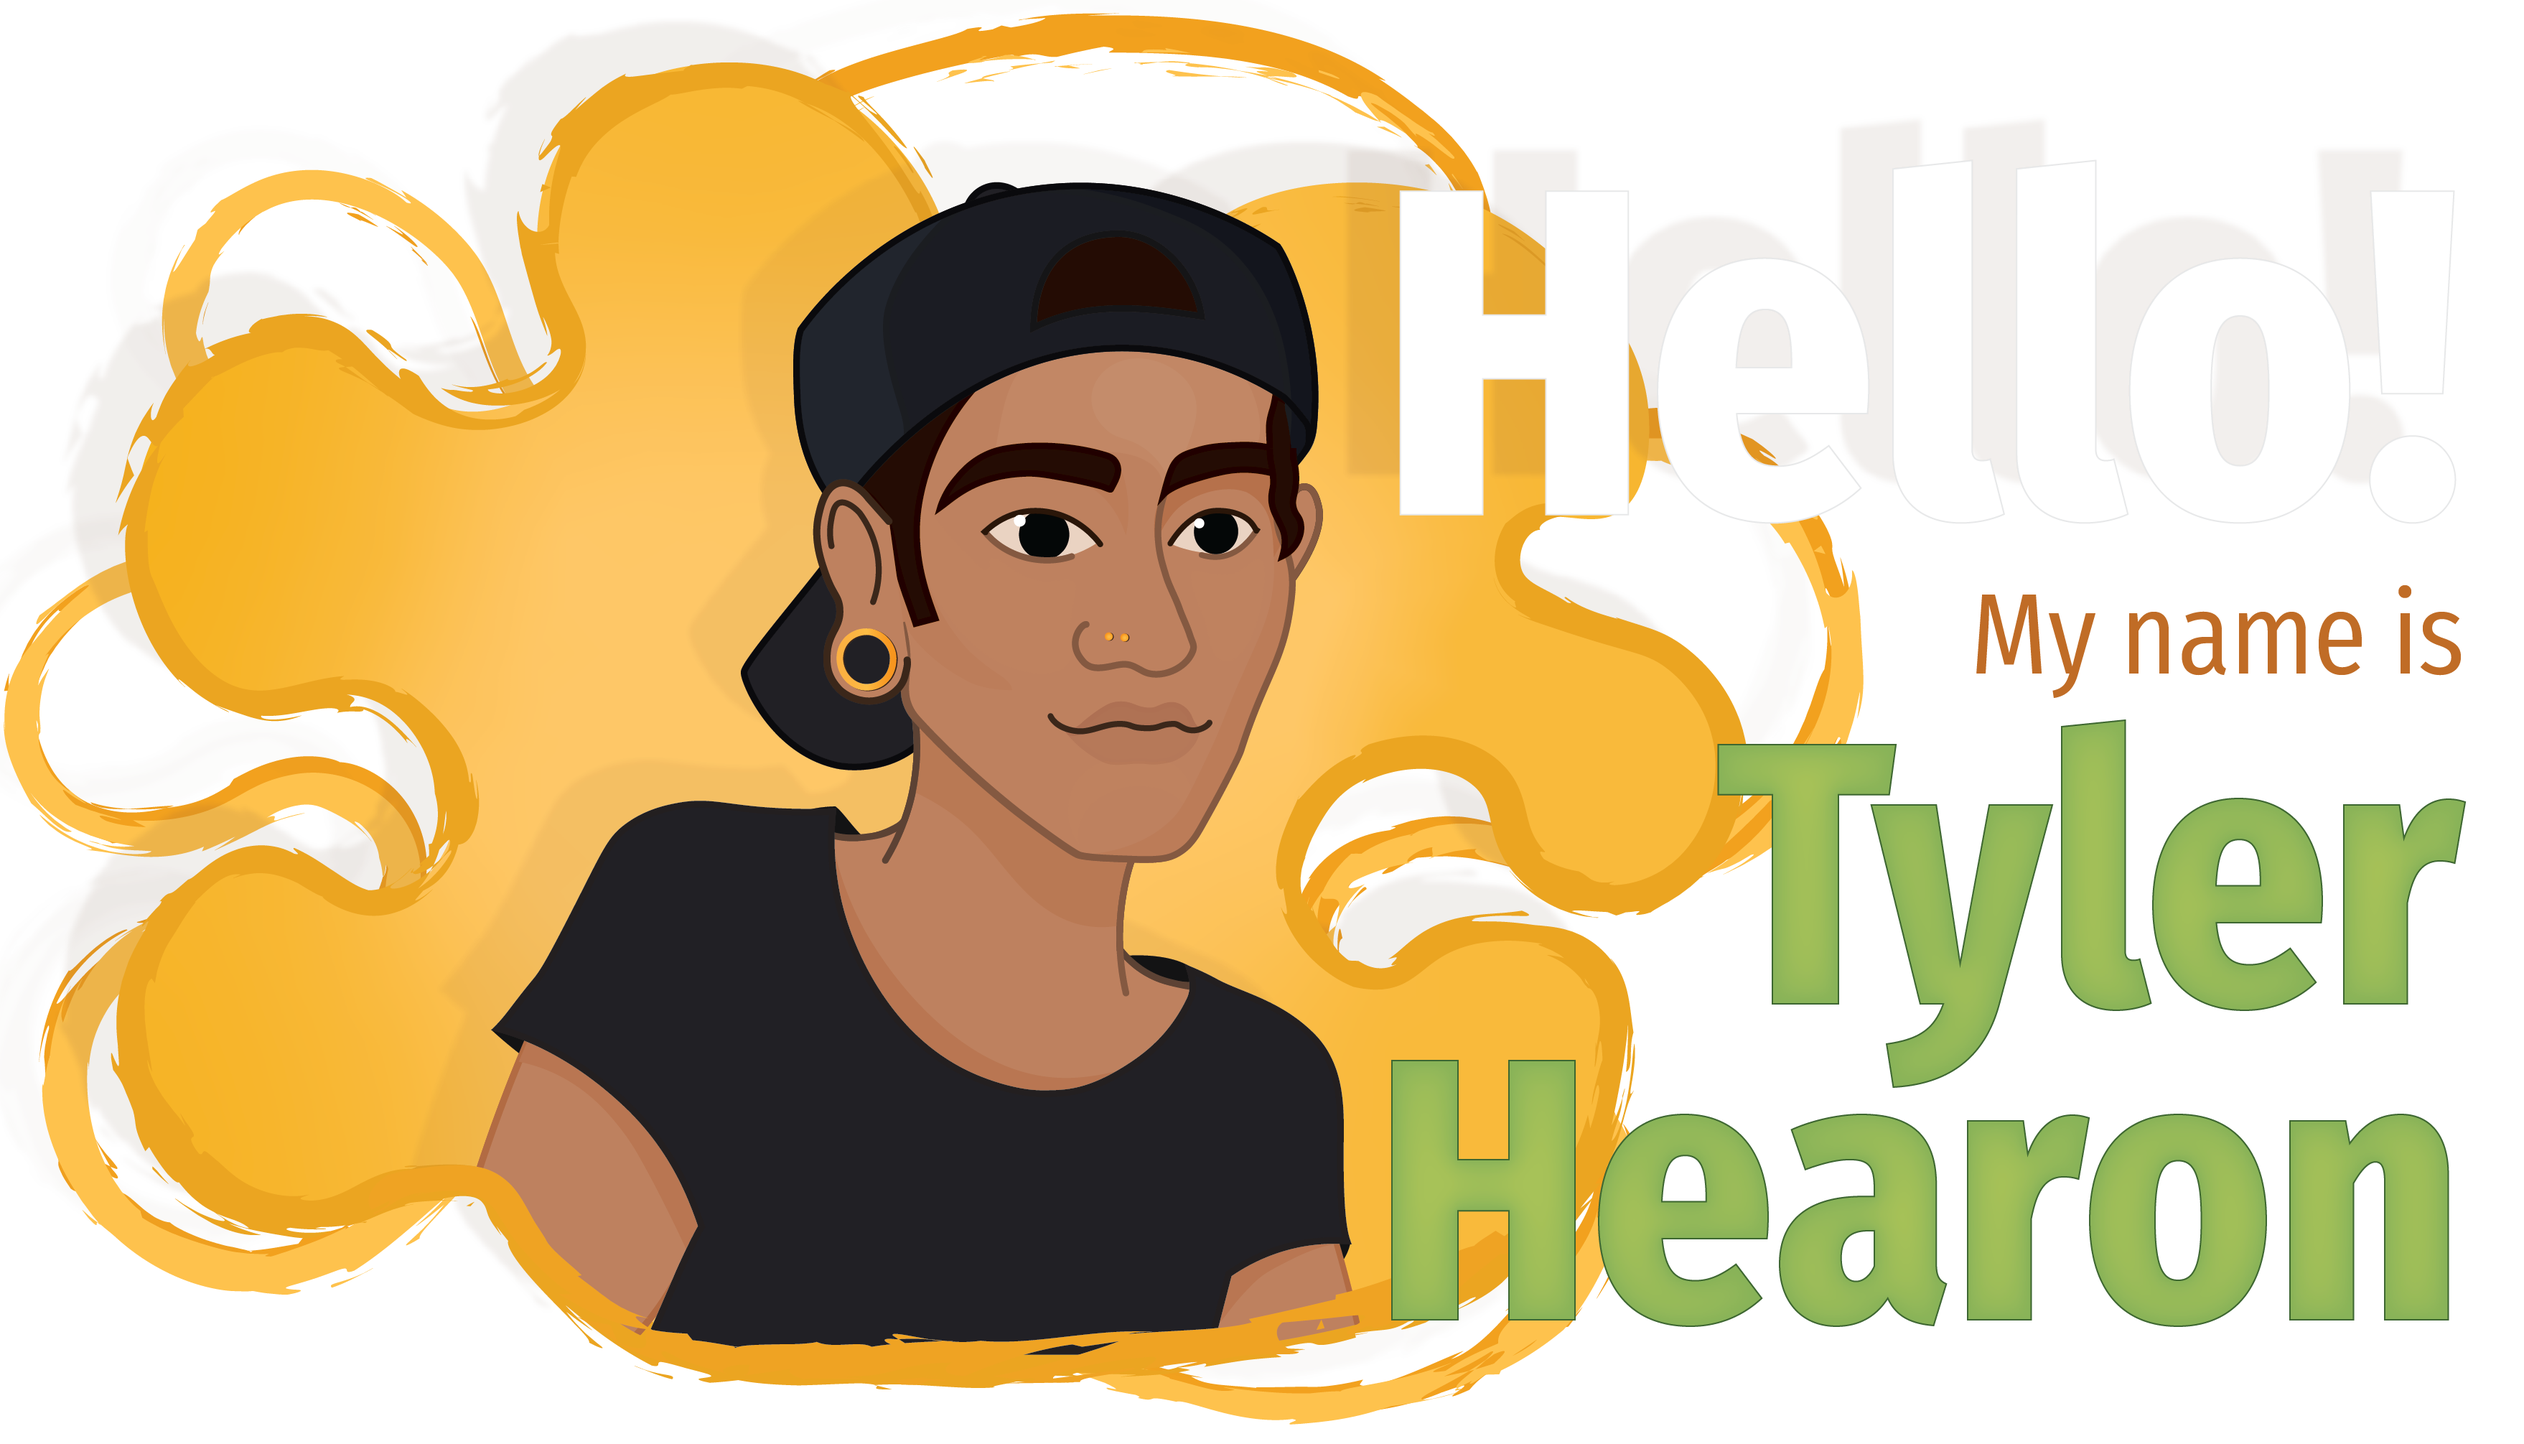
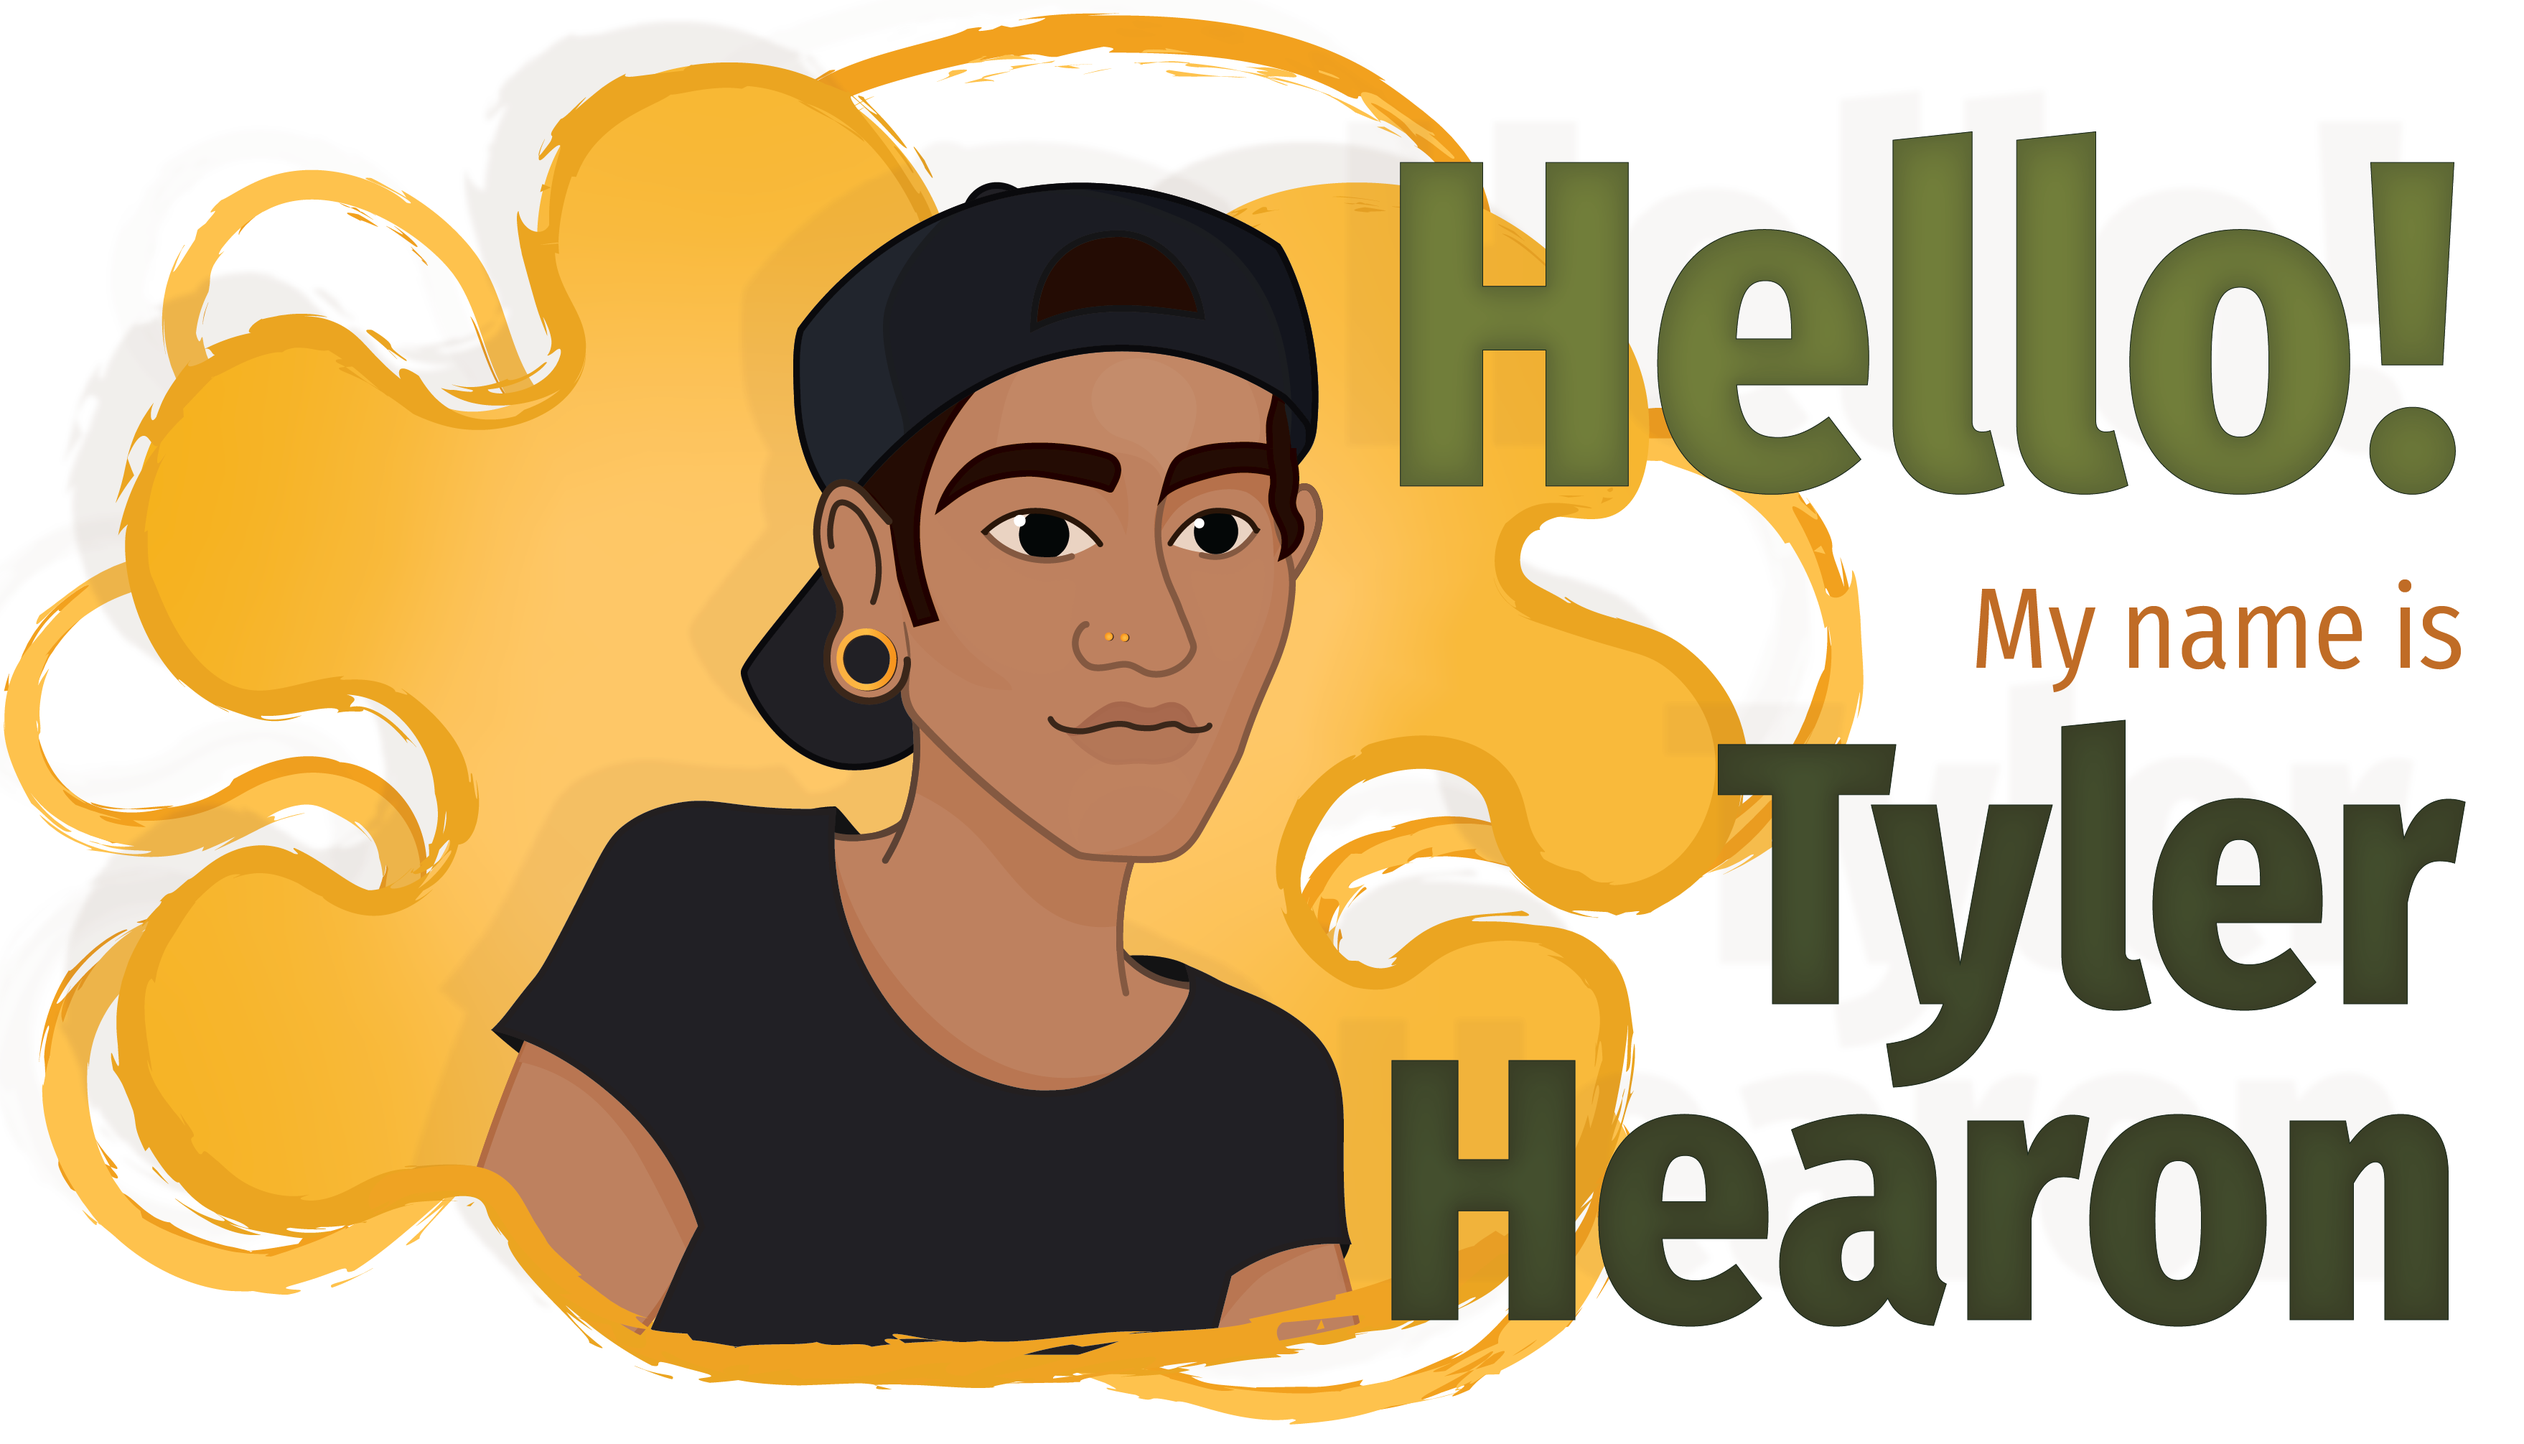
Push live updates to images and image sizing
Push live updates to images and image sizing

diff --git a/_patterns/landingpage/landingpage.css b/_patterns/landingpage/landingpage.css
@@ -25,12 +25,13 @@
 
 .bioavatar {
   min-height: 10em;
-  background-image: url("../images/me-full.png");
+  background-image: url("../images/me-current.png");
   background-repeat: no-repeat;
 }
 
 .avatarcontainer {
   height: 12em;
+  margin-top: 1em;
 }
 
 .am-section-avatarcontainer {
@@ -38,9 +39,9 @@
 }
 
 .avatarimage {
-  height: 10em;
+  height: 14em;
   min-width: 18em;
-  background-image: url("../images/me-full.png");
+  background-image: url("../images/me-current.png");
   background-repeat: no-repeat;
   background-size: 100%;
 }
@@ -98,6 +99,15 @@
   font-weight: 300;
   padding-left: 0;
   padding-top: .5em;
+}
+
+.hellotext {
+  color: var(--color-accent-green-shadow);
+  transition: .2s ease
+}
+
+.hellotext:hover {
+  color: var(--color-secondary-gold);
 }
 
 .projectcardtextcontainer {
@@ -208,7 +218,7 @@
   }
 
   .avatarcontainer {
-    height: 16em;
+    height: 18em;
   }
 
   .am-section-avatarcontainer {
@@ -216,7 +226,7 @@
   }
 
   .avatarimage {
-    height: 14em;
+    height: 18em;
     min-width: 24em;
   }
 
@@ -236,8 +246,8 @@
 @media only screen and (min-width: 38em) {
 
   .avatarcontainer {
-    min-height: 10em;
-    max-height: 25em;
+    height: 21em;
+    margin-top: 3em;
   }
 
   .am-section-avatarcontainer {
@@ -247,14 +257,14 @@
   }
 
   .avatarimage {
-    height: 16em;
-    min-width: 28em;
+    height: 24em;
+    min-width: 30em;
+    max-width: 40em;
   }
 
   .aboutme-avatarimage {
-    height: 18em;
-    min-width: 24em;
-    max-width: 30em;
+    height: 26em;
+    min-width: 32em;
   }
 
   .am-section-avatarimage {
@@ -305,9 +315,8 @@
 @media only screen and (min-width: 60em) {
 
   .aboutme-avatarimage {
-    height: 22em;
-    min-width: 28em;
-    max-width: 30em;
+    height: 34em;
+    min-width: 40em;
   }
 
   .selfintrotitle {
@@ -336,7 +345,7 @@
   }
 
   .avatarcontainer {
-    height: 20em;
+    height: 26em;
     min-height: 10em;
     max-height: 30em;
   }
@@ -354,8 +363,8 @@
   }
 
   .lp-avatarimage {
-    height: 20em;
-    min-width: 32em;
+    height: 30em;
+    min-width: 38em;
   }
 
   .am-section-avatarimage {

diff --git a/_patterns/landingpage/landingpageintro.html b/_patterns/landingpage/landingpageintro.html
@@ -2,7 +2,7 @@
   <div class="unit xs-1 assetcard wrapper pad-t">
 
 
-    <div class="avatarcontainer relative push-1-2">
+    <div class="avatarcontainer relative push">
       <div class="avatarimage lp-avatarimage pin-c">
 
       </div>
@@ -11,7 +11,8 @@
 
 
     <div class="gutter-2">
-      <p class="stageleading tera text-center push pad-b-1-2 pad-t-1-2"><strong>I am a graphic designer and illustrator currently based in Ottawa, Canada.</strong></p>
+      <p class="stageleading hellotext tena text-center push-1-2 pad-t-2">Hello! My name is Tyler Hearon.</p>
+      <p class="stageleading tera text-center push-2"><strong>I am a graphic designer and illustrator currently based in Ottawa, Canada.</strong></p>
       <p class="introtext mega push">While I haven't always known with certainty that I wanted to be a designer, I have always held lifelong interests in the arts and culture, and learning about the animals and natural world surrounding me.</p>
       <p class="introtext mega push-2">I believe that in our lives, there is an incredible amount of growth to be found in the exposure to new and diverse perspectives. The use of unique and thought-provoking design can both delight and challenge the user, helping to create new points of view, ideas, and discussions in the future.</p>
     </div>
